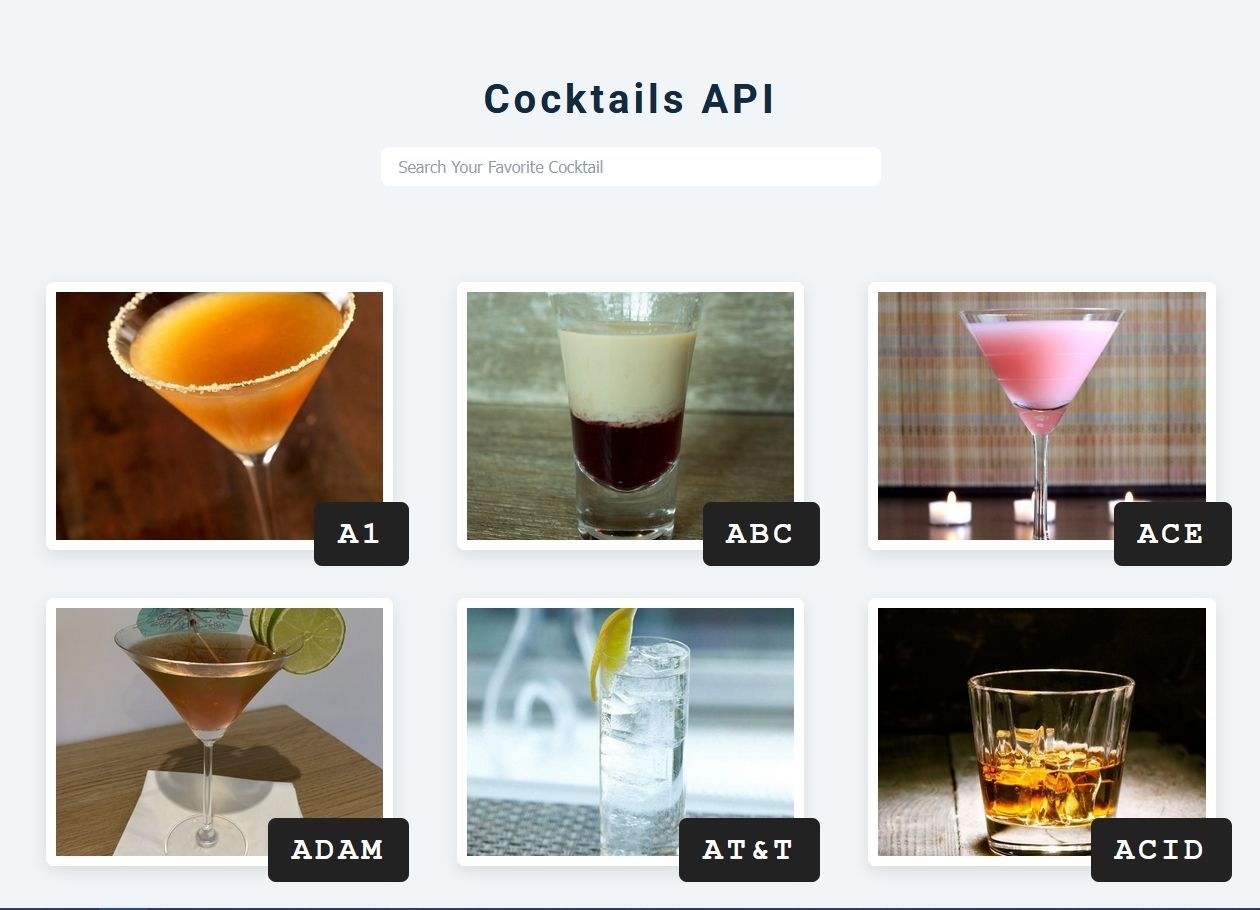
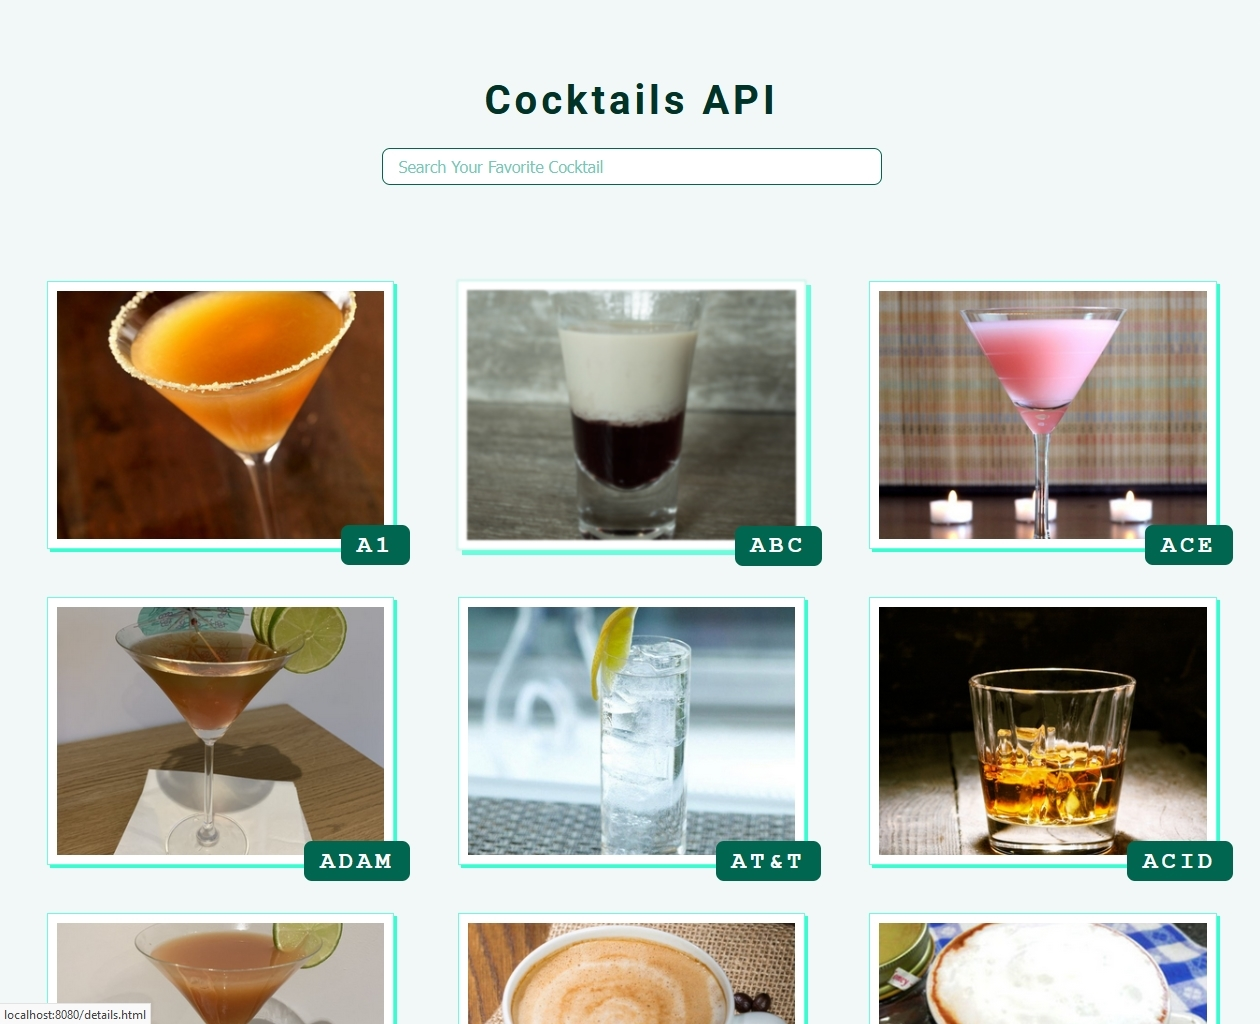
galleryChanges+cssChanges

diff --git a/style.css b/style.css
@@ -149,17 +149,19 @@ span {
   align-items: center;
 }
 
+.gallery {
+  display: flex;
+  flex-direction: column;
+  align-items: center;
+  justify-content: center;
+}
+
 .titleProjects {
   color: var(--secondaryColor);
   font-family: var(--terciaryFont);
   font-size: 1.4rem;
   text-transform: capitalize;
   margin: 1.5rem 0;
-}
-
-.imgProject {
-  width: 250px;
-  border-radius: 10px;
 }
 
 .projectTitle {
@@ -170,7 +172,23 @@ span {
   color: var(--primaryColor);
 }
 
+.imgProject {
+  width: 250px;
+  border-radius: 10px;
+  border: 10px solid white;
+}
+
+.projectInfos {
+  font-family: var(--terciaryFont);
+  margin: 1rem;
+  font-size: 1.1rem;
+  font-weight: bold;
+  text-align: center;
+  width: 75%;
+}
+
 .buttonsProject {
+  width: 50%;
   display: flex;
   justify-content: space-around;
 }
@@ -178,12 +196,12 @@ span {
 .btnProject {
   background: none;
   border: none;
-  font-size: 2rem;
+  font-size: 3rem;
   margin: 0.5rem;
 }
 
 .btnProject:hover {
-  color: var(--quaternaryColor);
+  color: var(--primaryColor);
   scale: 1.1;
 }
 
@@ -280,6 +298,11 @@ footer {
 
 a {
   text-decoration: none;
+}
+
+.curriculum {
+  height: 100vh;
+  width: 100%;
 }
 
 .social {

diff --git a/app.js b/app.js
@@ -15,8 +15,8 @@ window.addEventListener("DOMcontentLoaded", showProjects(0));
 const btns = document.querySelectorAll('.btnProject');
 btns.forEach((btn) => {
     btn.addEventListener('click', (e) => {
-
-        const id = parseInt(e.currentTarget.parentElement.previousElementSibling.firstChild.dataset.id);
+        console.log(e.currentTarget.parentElement.previousElementSibling.f);
+        const id = parseInt(e.currentTarget.parentElement.previousElementSibling.firstChild.nextElementSibling.dataset.id);
         e.currentTarget.classList.contains('btnNext') ? id == 2 ? showProjects(0) : showProjects(id + 1) : "";
         e.currentTarget.classList.contains('btnPrev') ? id == 0 ? showProjects(2) : showProjects(id - 1) : "";
 

diff --git a/api/displayProjects.js b/api/displayProjects.js
@@ -1,11 +1,12 @@
-const container = document.querySelector('.images')
+const container = document.querySelector('.gallery')
 
 const displayProjects = (projects) => {
-    const { name, id, url, image } = projects;
-    return container.innerHTML = `<a href="${url} "data-id='${id}'>
+    const { name, id, url, image, infos } = projects;
+    return container.innerHTML = `<h2 class="projectTitle">${name}</h2> 
+    <a href="${url} "data-id='${id}'>
     <img class="imgProject" src="${image}" alt="image ${name}">
     </a>
-    <h2 class="projectTitle">${name}</h2> `
+    <p class="projectInfos">${infos}</p>`
 }
 
 export default displayProjects;

diff --git a/index.html b/index.html
@@ -102,7 +102,7 @@
 
     <section class="projects" id="projects">
       <h1 class="titleProjects">Mes projets</h1>
-      <article class="images">
+      <article class="gallery">
       </article>
       <div class="buttonsProject">
             <button class="btnProject btnPrev"><i class="fas fa-arrow-alt-circle-left"></i></button>
